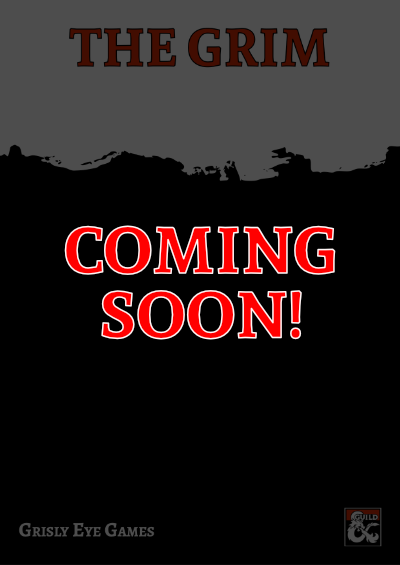
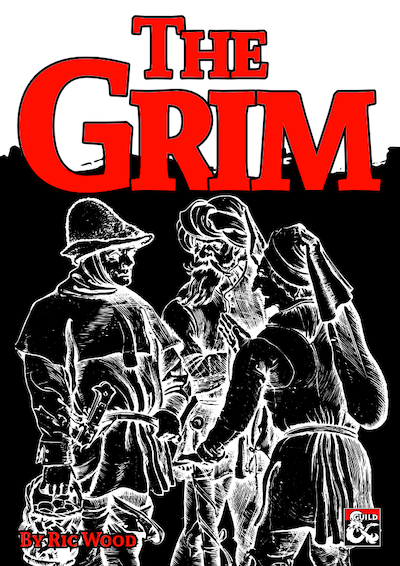
Publish The Grim PDF

diff --git a/posts/_includes/top-ribbon.html b/posts/_includes/top-ribbon.html
@@ -1,12 +1,12 @@
 <section id="top-ribbon" class="ribbon">
   <div class="content">
-    <h5>The Blessed</h5>
+    <h5>The Grim</h5>
 
     <div class="copy">
 
-      <p>My new <span class="title">Dungeon Master's Guild</span> monograph is available now. <span class="product">The Blessed</span> contains two new backgrounds and rules for low-fantasy characters.</p>
+      <p>My new <span class="title">Dungeon Master's Guild</span> monograph is available now. <span class="product">The Grim</span> introduces grubby options for low-fantasy campaigns. Includes many new rules, backgrounds and tools.</p>
 
-     <p class="action"><a class="button" href="/products/blessed">Buy Now</a></p>
+     <p class="action"><a class="button" href="/products/grim">Buy Now</a></p>
 
     </div>
 

diff --git a/posts/products/grim.html b/posts/products/grim.html
@@ -5,6 +5,7 @@ date: 2020-09-01
 layout: layouts/page.njk
 image: /images/covers/grim.png
 publish: draft
+redirectTo: "https://www.dmsguild.com/m/product/415434?affiliate_id=1765521"
 ---
 <figure class="illustration">
   <img src="/images/covers/grim.png" alt="The Grim Cover">
